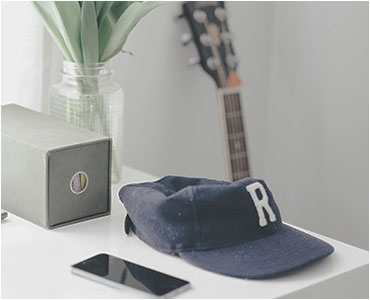
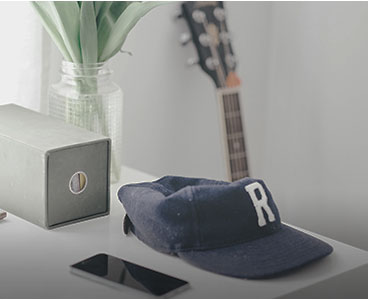
All done, continue on W3C checking...

diff --git a/WebContent/index.html b/WebContent/index.html
@@ -15,8 +15,23 @@
 	src="https://ajax.googleapis.com/ajax/libs/jquery/1.11.3/jquery.min.js"></script>
 <script type="text/javascript" src="js/bootstrap.min.js"></script>
 <script type="text/javascript" src="js/jquery-2.2.1.min.js"></script>
-<script src="countries.json"></script>
 <script type="text/javascript">
+	$(document).ready(function() {
+		$('.c2a-hover-show').hide();
+		$('.c2a-img').hover(function() {
+			$(this).find('.c2a-show-text').hide();
+			$(this).find('.c2a-hover-show').show();
+		}, function() {
+			$(this).find('.c2a-hover-show').hide();
+			$(this).find('.c2a-show-text').show();
+		});
+
+		$('a').click(function() {
+			$('a.active').removeClass('active');
+			$(this).addClass('active');
+		});
+	})
+
 	$(window).scroll(function() {
 		var fromTopPx = 200; // distance to trigger
 		var scrolledFromtop = $(window).scrollTop();
@@ -26,17 +41,6 @@
 			$('nav').removeClass('scrolled');
 		}
 	});
-</script>
-<script>
-	function get_countries(countries) {
-		var out = "";
-		var i;
-		for (i = 0; i < countries.length; i++) {
-			var tmp = countries[i].name;
-			out += '<option value="' + tmp + '">' + tmp + '</option>';
-		}
-		document.getElementById("countries-list").innerHTML = out;
-	}
 </script>
 </head>
 
@@ -69,26 +73,13 @@
 			<!-- Collect the nav links, forms, and other content for toggling -->
 			<div class="collapse navbar-collapse"
 				id="bs-example-navbar-collapse-1">
-				<!-- <ul class="nav navbar-nav">
-					<li class="active"><a href="#">HOME<span class="sr-only">(current)</span></a></li>
-					<li><a href="#">ABOUT</a></li>
-					<li class="dropdown"><a href="#" class="dropdown-toggle"
-						data-toggle="dropdown" role="button" aria-haspopup="true"
-						aria-expanded="false">SALES<span class="caret"></span></a>
-						<ul class="dropdown-menu">
-							<li><a href="#">TEST 1</a></li>
-							<li><a href="#">TEST 2</a></li>
-							<li><a href="#">TEST 3</a></li>
-						</ul>
-					</li>
-					<li><a href="#">VACANCIES</a></li>
-				</ul> -->
 				<ul class="nav navbar-nav navbar-right">
-					<li><a href="#" title="Home">HOME</a></li>
+					<li><a href="#" title="Home" class="active">HOME</a></li>
 					<li><a href="#" title="About">ABOUT</a></li>
-					<li class="dropdown"><a href="#" class="dropdown-toggle"
-						data-toggle="dropdown" role="button" aria-haspopup="true"
-						aria-expanded="false">SALES<span class="caret"></span></a>
+					<li class="dropdown"><a href="#"
+						class="dropdown-toggle sales-link" data-toggle="dropdown"
+						role="button" aria-haspopup="true" aria-expanded="false">SALES<span
+							class="caret"></span></a>
 						<ul class="dropdown-menu">
 							<li><a href="#" title="Test 1">TEST 1</a></li>
 							<li><a href="#" title="Test 2">TEST 2</a></li>
@@ -136,12 +127,12 @@
 							<div class="panel-heading homepage">
 								<h4 class="panel-title">
 									<a class="accordion-toggle" data-toggle="collapse"
-										data-parent="#accordion" href="#collapseOne">January 2016
-										| <strong>Perth, Australia</strong>
+										data-parent="#accordion" href="#collapse1">January 2016 |
+										<strong>Perth, Australia</strong>
 									</a>
 								</h4>
 							</div>
-							<div id="collapseOne" class="panel-collapse collapse in">
+							<div id="collapse1" class="panel-collapse collapse in">
 								<div class="panel-body">Lorem ipsum dolor sit amet,
 									consectetuer adipiscing elit. Aenean commodo ligula eget dolor.
 									Aenean massa. Cum sociis natoque penatibus et magnis dis
@@ -155,12 +146,12 @@
 							<div class="panel-heading homepage">
 								<h4 class="panel-title">
 									<a class="accordion-toggle collapsed" data-toggle="collapse"
-										data-parent="#accordion" href="#collapseTen">Feburary 2015
-										| <strong>Cape Town, South Africa</strong>
+										data-parent="#accordion" href="#collapse2">Feburary 2015 |
+										<strong>Cape Town, South Africa</strong>
 									</a>
 								</h4>
 							</div>
-							<div id="collapseTen" class="panel-collapse collapse">
+							<div id="collapse2" class="panel-collapse collapse">
 								<div class="panel-body">Lorem ipsum dolor sit amet,
 									consectetuer adipiscing elit. Aenean commodo ligula eget dolor.
 									Aenean massa. Cum sociis natoque penatibus et magnis dis
@@ -174,12 +165,12 @@
 							<div class="panel-heading homepage">
 								<h4 class="panel-title">
 									<a class="accordion-toggle collapsed" data-toggle="collapse"
-										data-parent="#accordion" href="#collapseEleven">March 2016
-										| <strong>Mount Olympus</strong>
+										data-parent="#accordion" href="#collapse3">March 2016 | <strong>Mount
+											Olympus</strong>
 									</a>
 								</h4>
 							</div>
-							<div id="collapseEleven" class="panel-collapse collapse">
+							<div id="collapse3" class="panel-collapse collapse">
 								<div class="panel-body">Lorem ipsum dolor sit amet,
 									consectetuer adipiscing elit. Aenean commodo ligula eget dolor.
 									Aenean massa. Cum sociis natoque penatibus et magnis dis
@@ -194,32 +185,62 @@
 				<div class="col-xs-6 col-sm-6 col-md-4 c2a-img">
 					<a href="#" title="Link 1"> <img class="img-responsive"
 						alt="Link 1" title="Link 1" src="images/image-article1.jpg" /></a>
-					<div class="caption overlay-small">
+					<div class="caption overlay-small c2a-show-text">
 						<p>
 							<a href="#" title="Link 1">January 2016 | <strong>Perth,
 									Australia</strong></a>
 						</p>
 					</div>
+					<div class="caption overlay-small c2a-hover-show">
+						<p>
+							<a href="#" title="Link 1" class="c2a-link-text"> Cras eu
+								blandit metus,<br />a Cape Town elementum.<br /> <span
+								class="author-name">by <author>John Doe</author></span> <br />
+								<span class="author-date">Posted <time pubdate
+										datetime="2016-02-11" title="Feburary 11st, 2016">on
+										02-11-16</time></span>
+							</a>
+						</p>
+					</div>
 				</div>
-				<!-- 			</div> -->
-				<!-- 			<div class="row"> -->
-				<div class="col-xs-6 col-sm-6 col-md-4 c2a-img">
+				<div class="col-xs-6 col-sm-6 col-md-4 c2a-img fix-992">
 					<a href="#" title="Link 2"><img class="img-responsive"
 						alt="Link 2" title="Link 2" src="images/image-article2.jpg" /></a>
-					<div class="caption overlay-small">
+					<div class="caption overlay-small c2a-show-text">
 						<p>
-							<a href="#" title="Link 1">January 2016 | <strong>Perth,
-									Australia</strong></a>
+							<a href="#" title="Link 1">Feburary 2015 | <strong>Cape
+									Town, South Africa</strong></a>
+						</p>
+					</div>
+					<div class="caption overlay-small c2a-hover-show">
+						<p>
+							<a href="#" title="Link 1" class="c2a-link-text"> Cras eu
+								blandit metus,<br />a Cape Town elementum.<br /> <span
+								class="author-name">by <author>John Doe</author></span> <br />
+								<span class="author-date">Posted <time pubdate
+										datetime="2016-02-11" title="Feburary 11st, 2016">on
+										02-11-16</time></span>
+							</a>
 						</p>
 					</div>
 				</div>
 				<div class="col-xs-12 col-sm-12 col-md-8 c2a-img">
 					<a href="#" title="Link 3"><img class="img-responsive"
 						alt="Link 3" title="Link 3" src="images/image-article3.jpg" /></a>
-					<div class="caption overlay-wide">
+					<div class="caption overlay-wide c2a-show-text">
 						<p>
 							<a href="#" title="Link 1">March 2016 | <strong>Mount
 									Olympus</strong></a>
+						</p>
+					</div>
+					<div class="caption overlay-wide c2a-hover-show">
+						<p>
+							<a href="#" title="Link 1" class="c2a-link-text"> Cras eu
+								blandit metus<br /> <span class="author-name">by <author>John
+									Doe</author></span> <br /> <span class="author-date">Posted <time
+										pubdate datetime="2016-02-11" title="Feburary 11st, 2016">on
+										02-11-16</time></span>
+							</a>
 						</p>
 					</div>
 				</div>
@@ -259,7 +280,26 @@
 			</div>
 			<div class="col-md-3">
 				<p class="footer-header">Location Information</p>
-				<select id="countries-list"></select>
+				<select id="countries-list" name="select">
+					<option value="">Select Your Country</option>
+				</select>
+				<script>
+					var out = '<option value="">Select Your Country</option>';
+					var i;
+					$
+							.getJSON(
+									"countries.json",
+									function(json) {
+										console.log(json); // this will show the info it in firebug console
+										for (i = 0; i < json[0]['countries'].length; i++) {
+											var tmp = json[0]['countries'][i]['name'];
+											out += '<option value="' + tmp + '">'
+													+ tmp + '</option>';
+										}
+										document
+												.getElementById("countries-list").innerHTML = out;
+									});
+				</script>
 				<p class="footer-text">
 					<em>“Ut eni et illi dolore magnam aliqua et aerat voluptatem.”</em>
 				</p>
@@ -269,7 +309,7 @@
 				<ul class="footer-nav">
 					<li><a href="#" title="General">General</a></li>
 					<li><a href="#" title="Development">Development</a></li>
-					<li><a href="#" title="Sales">Sales</a></li>
+					<li class="sales-link"><a href="#" title="Sales">Sales</a></li>
 					<li><a href="#" title="Appraisals">Appraisals</a></li>
 				</ul>
 			</div>

diff --git a/WebContent/style.css b/WebContent/style.css
@@ -9,12 +9,14 @@ p{margin: 15px 0 15px;}
 
 .navbar-default{background-color: transparent;border-color: transparent;}
 .navbar-default .navbar-nav>li>a, .navbar-default{color: #ffffff;}
-.navbar-nav>li>a:focus, .navbar-default .navbar-nav>li>a:hover{color: #ffffff;border-bottom: 2px solid #b7c8d9;}
+.navbar-nav>li>a:focus, .navbar-default .navbar-nav>li>a:hover, .navbar-default .navbar-nav>li>a.active{color: #ffffff;border-bottom: 2px solid #b7c8d9;}
 .navbar-default .navbar-brand{color: #ffffff;}
 .navbar-default .navbar-brand:focus, .navbar-default .navbar-brand:hover{color: #ffffff;text-decoration: underline;}
 .scrolled{background: rgba(0, 0, 0, 0.6) !important;}
 .navbar-default .navbar-nav>.open>a, .dropdown-menu li a{color: #ffffff;}
+.navbar-nav>li>.dropdown-menu{background: rgba(0, 0, 0, 0.6);}
 .dropdown-menu li:hover a{color: #ffffff;text-decoration: underline;background: transparent;}
+.navbar-default .navbar-nav>.open>a, .navbar-default .navbar-nav>.open>a:focus, .navbar-default .navbar-nav>.open>a:hover{background: inherit;color: #ffffff;}
 
 .row > div{margin-top: 20px;margin-bottom: 20px;}
 
@@ -29,7 +31,6 @@ p.article-heading{text-align: center;}
 
 .tooltips{border-bottom: 1px dotted #9E9E9E;}
 .tooltips .tooltiptext{visibility: hidden;position: absolute;width: 230px;background-color: #000000;color: #ffffff;padding: 10px; z-index: 1;opacity: 0; transition: opacity 1s;}
-.tooltip-bottom{top: 94%;margin-left: -216px;}
 .tooltip-bottom::after{content: "";position: absolute;bottom: 100%;left: 50%;margin-left: -5px;border-width: 5px;border-style: solid;border-color: transparent transparent #000000 transparent;}
 .tooltips:hover .tooltiptext{visibility: visible;opacity: 1;}
 
@@ -47,18 +48,30 @@ p.article-heading{text-align: center;}
 
 .caption.overlay-small{position: absolute;bottom: 0;width: 92%;word-break: break-word;text-indent: 20px;padding: 20px 0;}
 .caption.overlay-wide{position: absolute;bottom: 0;width: 96%;word-break: break-word;text-indent: 20px;padding: 20px 0;}
-.c2a-img:hover .caption.overlay-small, .c2a-img:hover .caption.overlay-wide{background: url("images/overlay-img.png");text-decoration: underline;}
-.caption.overlay-small a, .caption.overlay-wide a{color: #ffffff;}
+.c2a-img:hover .img-responsive{filter: brightness(30%);-webkit-filter: brightness(30%);-moz-filter: brightness(30%);}
+.c2a-img:hover a{text-decoration: underline;}
+.caption.overlay-small a, .caption.overlay-wide a, .c2a-hover-show{color: #ffffff;}
+.c2a-hover-show{text-align: center; padding: 0;height: 70%;}
+.c2a-link-text{display: block;height: 100%;text-decoration: none !important;height: 100%;width: 100%;position: absolute;top: 0;}
+.author-name, .author-date{color: #858585;}
 
 @media only screen and (min-width: 320px) and (max-width: 529px){
     .banner-text {visibility: hidden;}
-    .caption.overlay-wide{width: 90%;padding: 0;text-indent: 0;}
-    .caption.overlay-small{width: 80%;padding: 0;text-indent: 0;}
+    .caption.overlay-wide{width: 90%;padding: 0;font-size: 12px;}
+    .caption.overlay-small{width: 80%;padding: 0;font-size: 12px;}
+    .tooltip-bottom{top: 92%;margin-left: -10px;}
+    .c2a-hover-show{height: 80%;text-indent: 0 !important;}
+    .caption.overlay-wide.c2a-hover-show{height: 60%;}
+    .author-name, .author-date{visibility: hidden;}
+    
+    .panel-heading [data-toggle="collapse"]:after{font-size: 12px;position: absolute;right: 24px;}
 }
 
 @media only screen and (min-width: 480px){
-    .caption.overlay-wide{width: 93%;}
-    .caption.overlay-small{width: 87%;padding-bottom: 0;}
+    .caption.overlay-wide{width: 93%;text-indent: 10px;font-size: 14px;}
+    .caption.overlay-small{width: 87%;padding-bottom: 0;text-indent: 10px;font-size: 14px;}
+    .tooltip-bottom{top: 110%;margin-left: -216px;}
+    .author-name, .author-date{visibility: visible;}
 }
 
 @media only screen and (min-width: 640px){
@@ -76,6 +89,17 @@ p.article-heading{text-align: center;}
     	visibility: visible;
     }
 }
+
+@media only screen and (min-width: 992px){
+    .fix-992{clear: both;}
+}
+
+@media only screen and (min-width: 1024px){
+    .caption.overlay-wide{width: 93%;}
+    .caption.overlay-small{width: 87%;padding-bottom: 0;}
+    .tooltip-bottom{top: 94%;margin-left: -216px;}
+}
+
 
 /*Footer*/
 .footer-wrap{padding-top: 40px;padding-bottom: 40px;}
